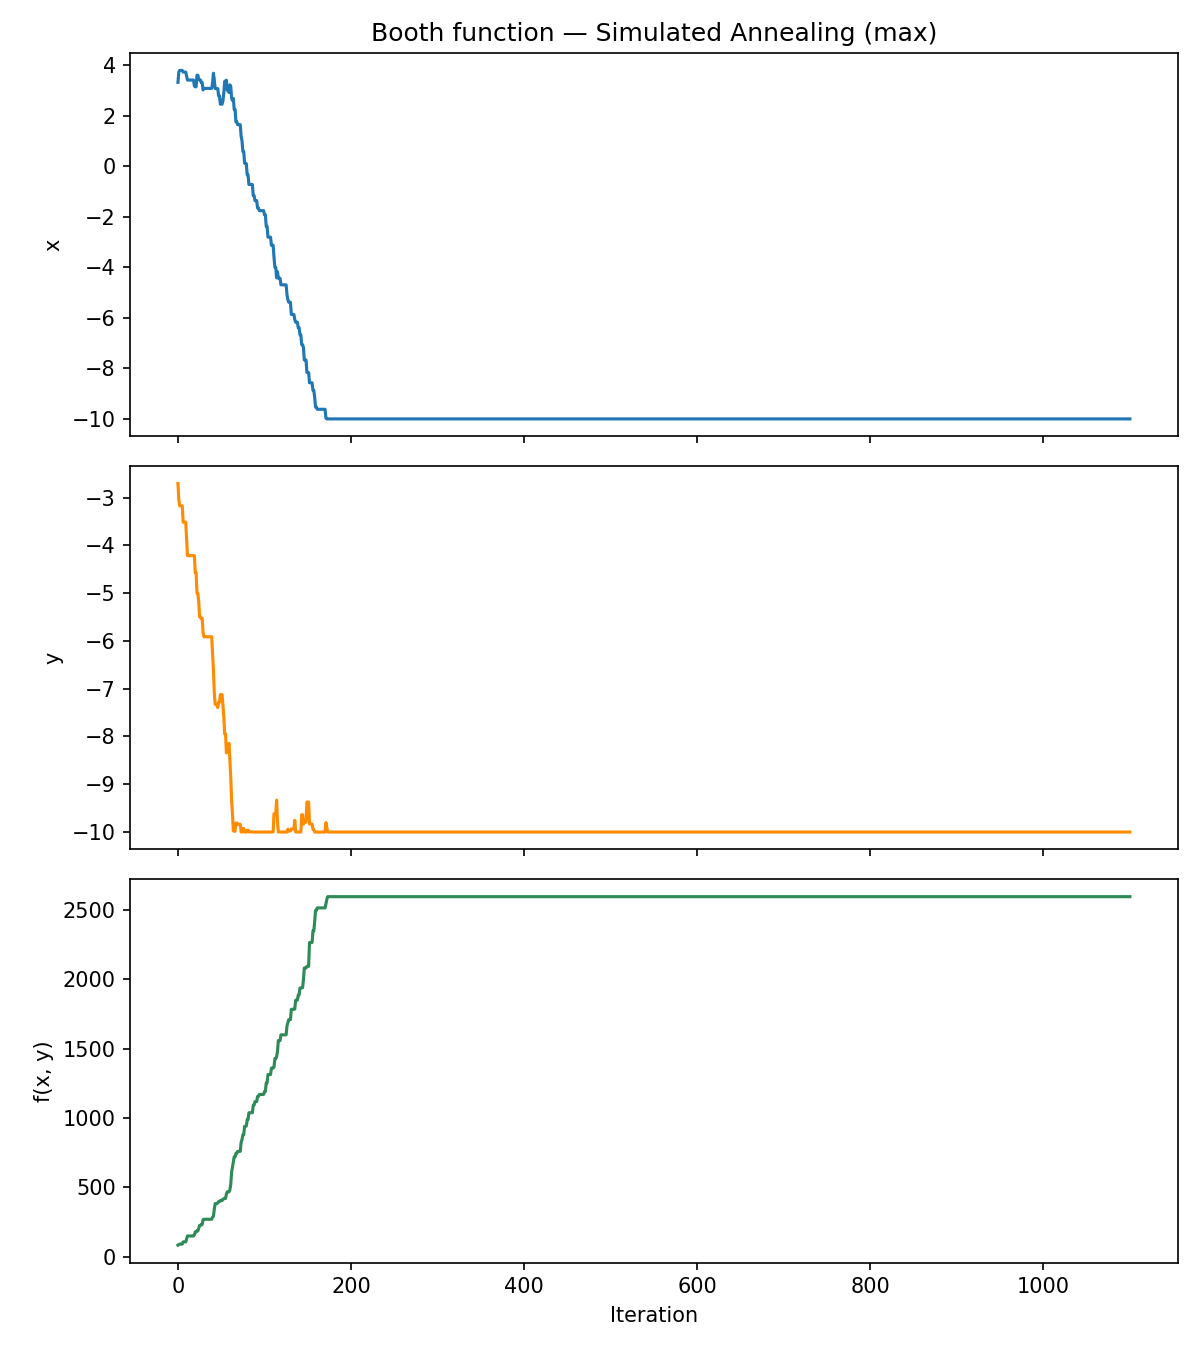
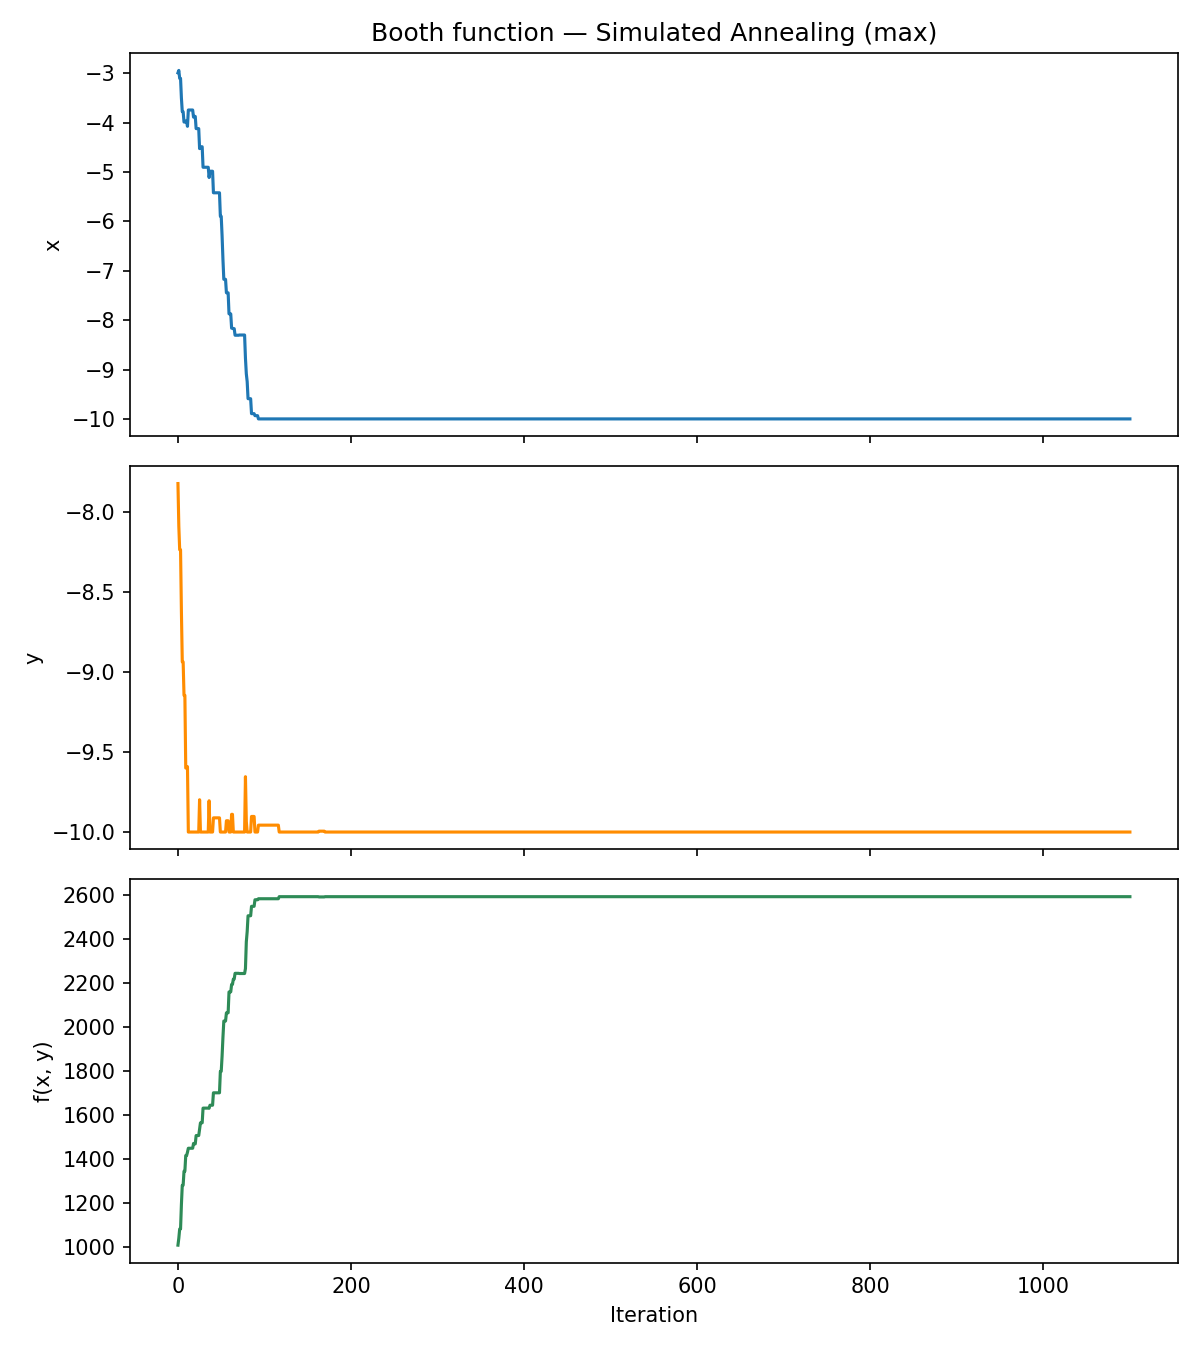
added max runs on sim annealing

diff --git a/code/simulatedAnnealingFaiza.py b/code/simulatedAnnealingFaiza.py
@@ -43,9 +43,10 @@ def simAnnealing(
     (minX, minY), (maxX, maxY) = bounds
  
     if not inclusiveBounds:
-        eps = 1e-16
-        minX, minY = minX + eps, minY + eps
-        maxX, maxY = maxX - eps, maxY - eps
+        minX = math.nextafter(minX, math.inf)
+        minY = math.nextafter(minY, math.inf)
+        maxX = math.nextafter(maxX, -math.inf)
+        maxY = math.nextafter(maxY, -math.inf)
  
 
 
@@ -58,7 +59,7 @@ def simAnnealing(
         for _ in range(K):
             candX = x + random.uniform(-neighbourhoodSize, neighbourhoodSize)
             candY = y + random.uniform(-neighbourhoodSize, neighbourhoodSize)
-
+            
             candX = min(max(candX, minX), maxX)
             candY = min(max(candY, minY), maxY)
 
@@ -123,17 +124,17 @@ os.makedirs(OUT_DIR, exist_ok=True)
 
 
 problems = [
-    # name,        func,             bounds,                inclusive, best
-    ("Booth",      boothFunc,       ((-10, -10), (10, 10)), True,  "min"),
-    ("Himmelblau", himmelblauFunc,  ((-5, -5), (5, 5)),      True,  "min"),
-    ("Griewank",   griewankFunc,    ((-30, -30), (30, 30)), False, "min"),
-    ("Booth",      boothFunc,       ((-10, -10), (10, 10)), True,  "max"),
-    ("Himmelblau", himmelblauFunc,  ((-5, -5), (5, 5)),      True,  "max"),
-    ("Griewank",   griewankFunc,    ((-30, -30), (30, 30)), False, "max"),
+    # name,        func,             bounds,                inclusive, best   decTemp  K
+    ("Booth",      boothFunc,       ((-10, -10), (10, 10)), True,      "min", 0.1,    100),
+    ("Himmelblau", himmelblauFunc,  ((-5, -5), (5, 5)),     True,      "min", 0.1,    100),
+    ("Griewank",   griewankFunc,    ((-30, -30), (30, 30)), False,     "min", 0.01,   300),
+    ("Booth",      boothFunc,       ((-10, -10), (10, 10)), True,      "max", 0.1,    100),
+    ("Himmelblau", himmelblauFunc,  ((-5, -5), (5, 5)),     True,      "max", 0.1,    100),
+    ("Griewank",   griewankFunc,    ((-30, -30), (30, 30)), False,     "max", 0.01,   100),
 
 ]
 
-for name, func, bounds, inclusive, best in problems:
+for name, func, bounds, inclusive, best, decTemp, K in problems:
     (minX, minY), (maxX, maxY) = bounds
     x0 = random.uniform(minX, maxX)
     y0 = random.uniform(minY, maxY)
@@ -145,9 +146,9 @@ for name, func, bounds, inclusive, best in problems:
         func, bounds, x0, y0,
         inclusiveBounds=inclusive,
         neighbourhoodSize=0.5,
-        K=100,
+        K=K,
         temperature=1.0,
-        decTemp=0.1,
+        decTemp=decTemp,
         best=best,
     )
 

diff --git a/code/simulatedAnnealing.py b/code/simulatedAnnealing.py
@@ -221,10 +221,32 @@ def runRequiredFunctions(restarts=20, firstSeed=351, outputDirectory=None, show=
             firstSeed + index * restarts,
             **parameters,
         )
-        results.append((name, result))
+        results.append((name, result, "Min"))
 
         if outputDirectory is not None:
-            plotResult(name, result, outputDirectory, show)
+            plotResult(name+"_min", result, outputDirectory, show)
+
+    for index, (name, function, bounds, tunedParameters) in enumerate(functions):
+            parameters = {
+                "objective": "max",
+                "neighborhoodSize": 0.5,
+                "startingTemperature": 1.0,
+                "temperatureDecrease": 0.1,
+                "iterationsPerTemperature": 100,
+            }
+            parameters.update(tunedParameters)
+    
+            result = findBestRun(
+                function,
+                bounds,
+                restarts,
+                firstSeed + index * restarts,
+                **parameters,
+            )
+            results.append((name, result, "Max"))
+    
+            if outputDirectory is not None:
+                plotResult(name+"_max", result, outputDirectory, show)
 
     return results
 
@@ -248,11 +270,12 @@ def main():
         arguments.show,
     )
 
-    print("Function       Best x       Best y       Best f(x, y)   Accepted")
+    print("Function     Max/Min      Best x       Best y        Best f(x, y)   Accepted")
     print("-----------------------------------------------------------------")
-    for name, result in results:
+    for name, result, obj in results:
         print(
             f"{name:<12} "
+            f"{obj:<10}"
             f"{result.bestX:>11.6f} "
             f"{result.bestY:>12.6f} "
             f"{result.bestValue:>18.10f} "
